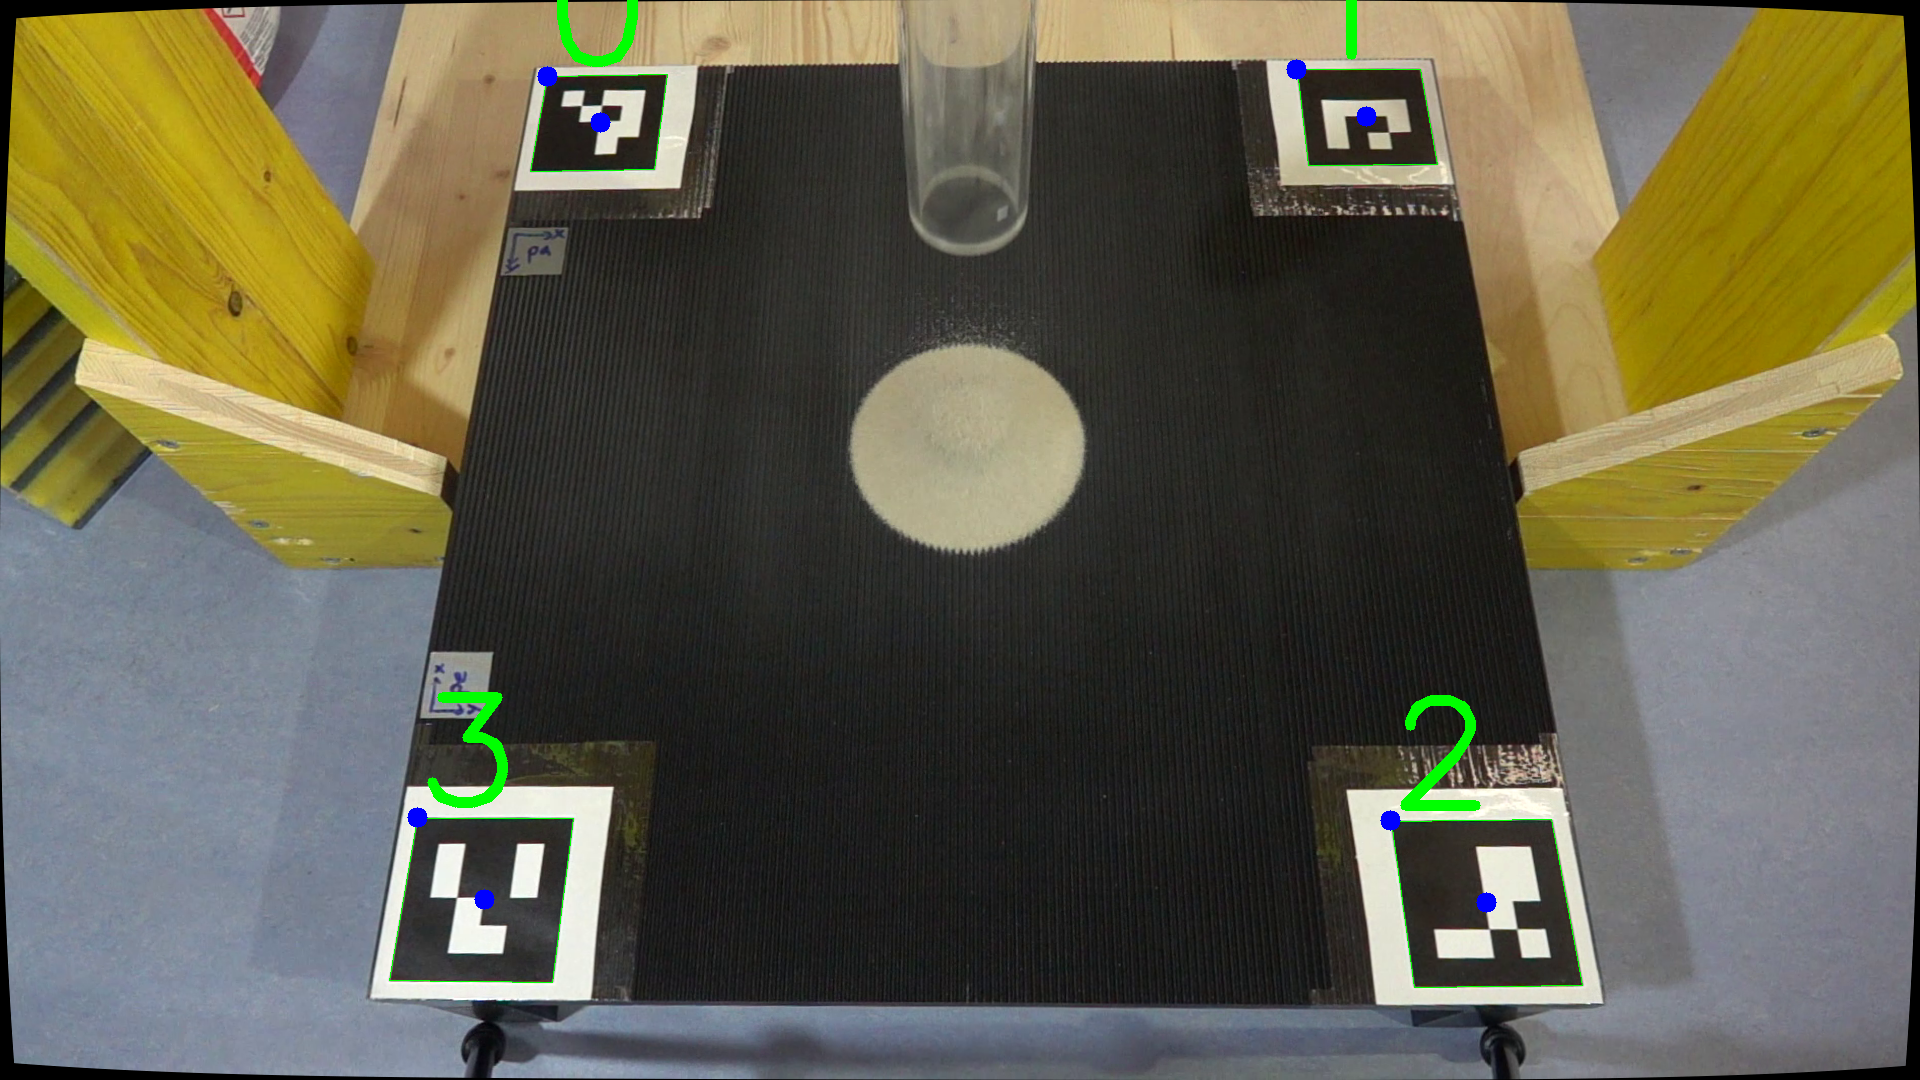
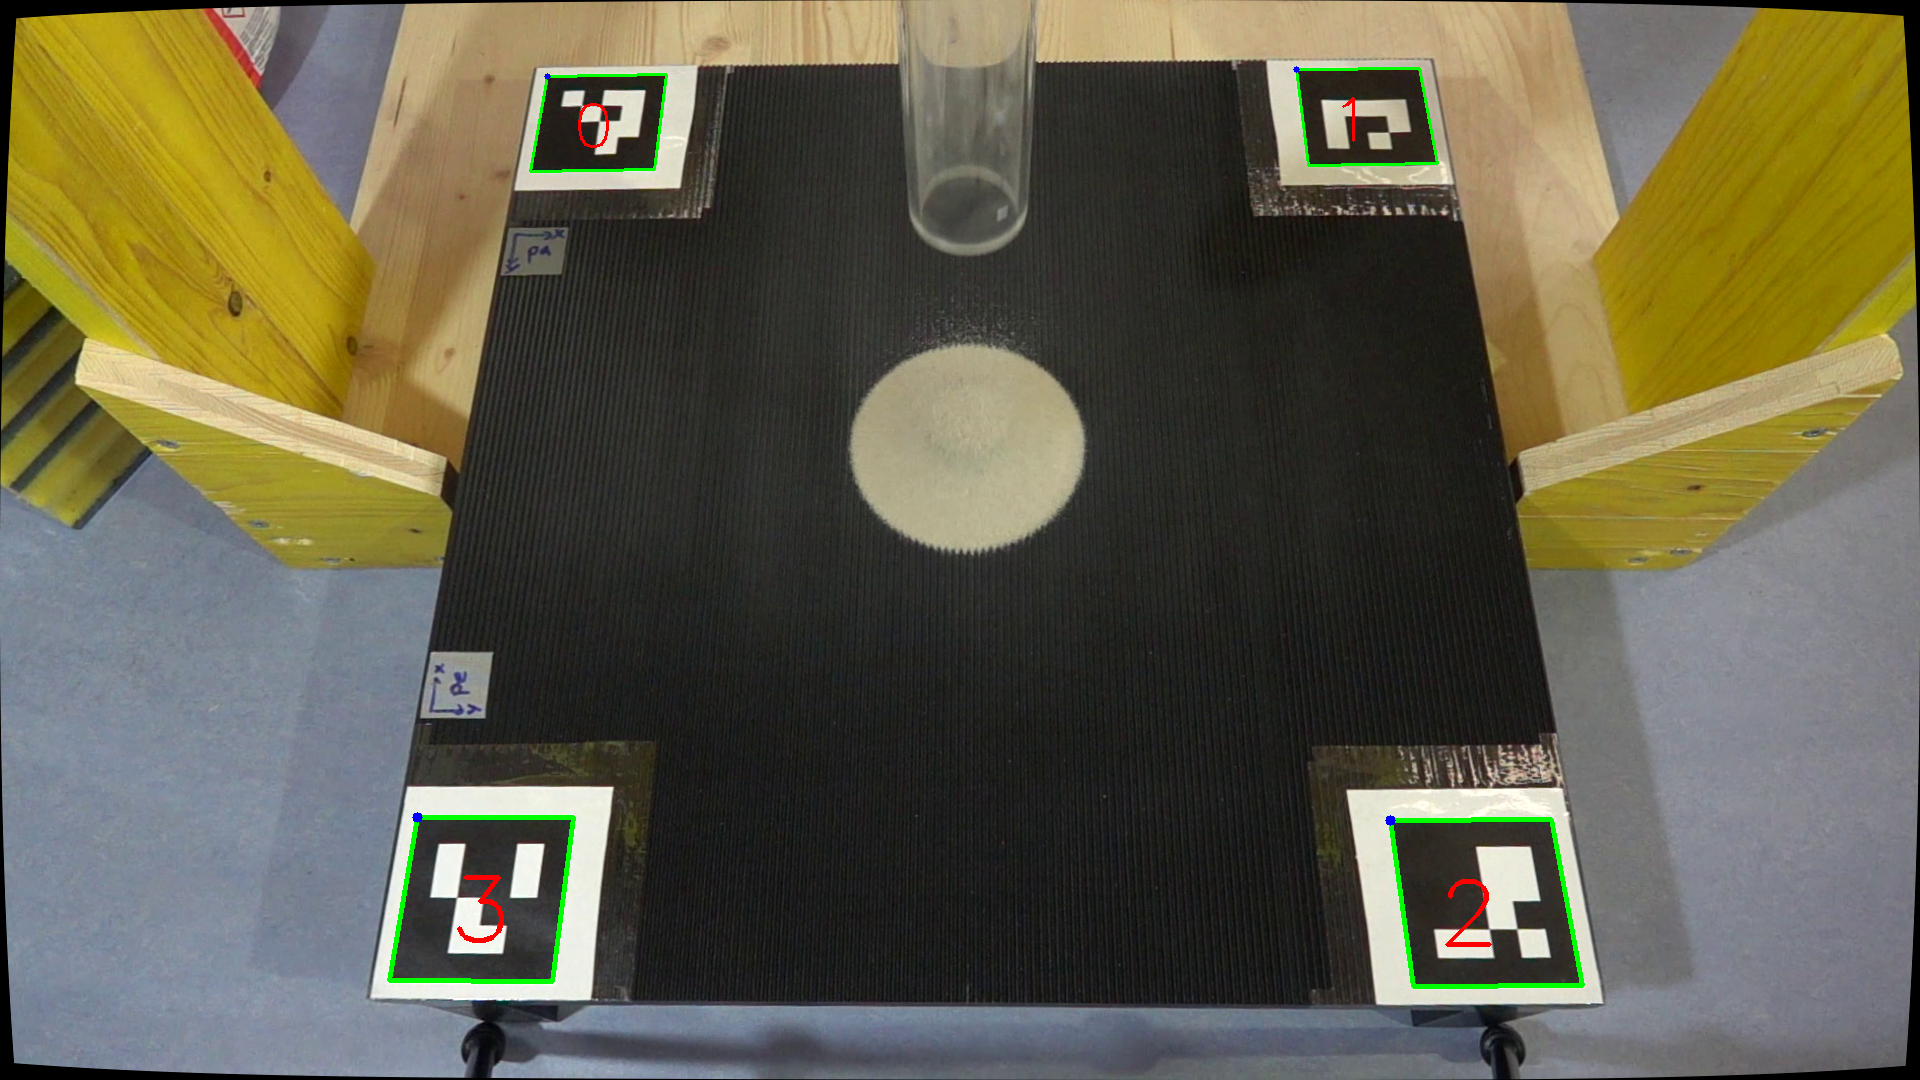
adjusted the result drawing of the detection function

diff --git a/warpPerspective.py b/warpPerspective.py
@@ -4,75 +4,93 @@ import cv2
 import matplotlib.pyplot as plt
 
 # Importing user-defined modules
-from undistortImage import undistort
 from detectMarkers import detect
 
 
 def warp(corners, pattern, image):
-    
-    src = np.array([[corners[0][0], corners[0][1]], [corners[5][0], corners[5][1]], [corners[10][0], corners[10][1]], [corners[15][0], corners[15][1]]], dtype=np.float32)
-
-    dst = np.array([[pattern[0][0], pattern[0][1]], [pattern[5][0], pattern[5][1]], [pattern[10][0], pattern[10][1]], [pattern[15][0], pattern[15][1]]], dtype=np.float32)
-
-    # Get perspective transform matrix
-    M = cv2.getPerspectiveTransform(src, dst)
+    # Find the homography matrix
+    # Assume corners and pattern are arrays of points in the source and destination images
+    H, _ = cv2.findHomography(corners, pattern, cv2.RANSAC, 5)
 
     # Wrap the image
-    img_warp = cv2.warpPerspective(image, M, (int(6000), int(6000)), cv2.INTER_LINEAR + cv2.WARP_INVERSE_MAP)
+    img_warp = cv2.warpPerspective(image, H, (int(6000), int(6000)), 
+                                   cv2.INTER_LINEAR + cv2.WARP_INVERSE_MAP)
 
-    return img_warp, M
+    return img_warp, H
 
 if __name__ == "__main__":
+    ####################################################################################
+    # ONLY SECTION TO ADJUST PARAMETERS
 
-    # Define used camera
-    camera = "sony_hs" # "sony", "sony_hs", "gopro1", "gopro2
-
-    # Define used basis
-    basis =  "rough" # "rough", "smooth"
-
-    # Import calibration parameters
-    K = np.loadtxt("calibration/" + camera + "/K.txt")  # calibration matrix[3x3]
-    d = np.loadtxt("calibration/" + camera + "/d.txt")  # distortion coefficients[2x1]
+    # Define paths
+    data_path = 'data/'
+    img_name = 'undst.png'
     
-    # Load image and define reference pattern in clockwise order in world frame (3D) in [mm]
+    # Define used basis - if new basis is used, please measure and define pattern below
+    basis =  'r2-pa' # 'r0-pe', 'r0-pa', 'r2-pe', 'r2-pa', 'r4-pe', 'r4-pa'
+
+    ####################################################################################
+    
+    # Define reference pattern in clockwise order in world frame (3D) in [0.1mm]
     match basis:
-        case 'r0-pa':
-            image = cv2.imread("data/f_r0-pa_d113_h40_100.JPG")
-            pattern = 100 * np.array([[0.9, 0.84, 0], [8.96, 0.82, 0], [8.95, 8.92, 0], [0.87, 8.93, 0],
-                                     [50.87, 0.82, 0], [58.95, 0.82, 0], [58.9, 8.91, 0], [50.83, 8.9, 0],
-                                     [50.74, 51.07, 0], [58.83, 51.02, 0], [58.88, 59.1, 0], [50.8, 59.14, 0],
-                                     [0.86, 51.02, 0], [8.94, 51.07, 0], [8.88, 59.17, 0], [0.79, 59.11, 0]])
-        case 'r0-pe':
-            image = cv2.imread("data/f_r0-pe_d113_h40_100.JPG")
-            pattern = 100 * np.array([[59.07, 0.87, 0], [59.18, 8.96, 0], [51.07, 8.95, 0], [50.98, 0.86, 0],
-                                     [59.18, 50.87, 0], [59.13, 58.93, 0], [51.06, 58.9, 0], [51.09, 50.82, 0],
-                                     [8.91, 50.74, 0], [8.96, 58.83, 0], [0.88, 58.88, 0], [0.85, 50.8, 0],
-                                     [8.89, 0.86, 0], [8.92, 8.94, 0], [0.82, 8.88, 0], [0.81, 0.8, 0]])
-        case "smooth":
-            image = cv2.imread("data/DSC00233.JPG")
-            pattern = 10 * np.array([[12.5, 6.2, 0], [99.5, 8, 0], [98.6, 95, 0], [11.5, 93.2, 0],
-                                [498.8, 8.2, 0], [586, 8.2, 0], [586.5, 95.4, 0], [499.2, 95, 0],
-                                [499.5, 503, 0], [586.7, 503.9, 0], [585.4, 591.2, 0], [498, 590.3, 0],
-                                [16.2, 503.1, 0], [103.3, 503.2, 0], [102.7, 590.5, 0], [15.6, 590.5, 0]]
-                                )
-        case "rough":
-            image = cv2.imread("data/C0037 - Trim_0.JPG")
-            pattern = 10 * np.array([[12.6, 12.8, 0], [98.5, 12.3, 0], [98.7, 98.5, 0], [13.1, 98.8, 0],
-                                [499.2, 12.7, 0], [585.3, 12.8, 0], [585.1, 98.7, 0], [499.1, 98.6, 0],
-                                [499.5, 501.2, 0], [585.5, 501.1, 0], [585.6, 587.1, 0], [499.6, 587.1, 0],
-                                [12.7, 501.2, 0], [98.3, 501.2, 0], [98.4, 587.5, 0], [12.6, 587.3, 0]]
-                                )
+        case 'r0-pe': # changed from earlier pa
+            pattern = 100 * np.array([[0.9, 0.84, 0], [8.96, 0.82, 0], [8.95, 8.92, 0], 
+                                      [0.87, 8.93, 0],
+                                    [50.87, 0.82, 0], [58.95, 0.82, 0], [58.9, 8.91, 0], 
+                                    [50.83, 8.9, 0],
+                                    [50.74, 51.07, 0], [58.83, 51.02, 0], [58.88, 59.1, 0], 
+                                    [50.8, 59.14, 0],
+                                    [0.86, 51.02, 0], [8.94, 51.07, 0], [8.88, 59.17, 0], 
+                                    [0.79, 59.11, 0]])
+        case 'r0-pa': # changed from earlier pe
+            pattern = 100 * np.array([[59.07, 0.87, 0], [59.18, 8.96, 0], [51.07, 8.95, 0], 
+                                      [50.98, 0.86, 0],
+                                    [59.18, 50.87, 0], [59.13, 58.93, 0], [51.06, 58.9, 0], 
+                                    [51.09, 50.82, 0],
+                                    [8.91, 50.74, 0], [8.96, 58.83, 0], [0.88, 58.88, 0], 
+                                    [0.85, 50.8, 0],
+                                    [8.89, 0.86, 0], [8.92, 8.94, 0], [0.82, 8.88, 0], 
+                                    [0.81, 0.8, 0]])
+        case 'r2-pa':
+            pattern = 100 * np.array([[1.06, 0.82, 0], [9.15, 0.82, 0], [9.12, 8.92, 0], 
+                                      [1.05, 8.92, 0],
+                                    [50.7, 0.91, 0], [58.77, 0.94, 0], [58.75, 9.04, 0], 
+                                    [50.66, 9, 0],
+                                    [50.57, 51.09, 0], [58.63, 50.99, 0], [58.73, 59.07, 0], 
+                                    [50.66, 59.14, 0],
+                                    [1.08, 51.02, 0], [9.15, 51.02, 0], [9.12, 59.13, 0], 
+                                    [1.04, 59.11, 0]])
+        case 'r2-pe':
+            pattern = 100 * np.array([[59.1, 1.06, 0], [59.12, 9.15, 0], [51.02, 9.12, 0], 
+                                      [51, 1.05, 0],
+                                    [59.04, 50.7, 0], [58.99, 58.77, 0], [58.88, 58.75, 0], 
+                                    [50.96, 50.66, 0],
+                                    [8.87, 50.57, 0], [8.91, 58.63, 0], [0.85, 58.73, 0], 
+                                    [0.81, 50.66, 0],
+                                    [8.9, 1.08, 0], [8.91, 9.15, 0], [0.81, 9.12, 0], 
+                                    [0.86, 1.04, 0]])
+        case 'r4-pa':
+            pattern = 100 * np.array([[1.3, 0.82, 0], [9.38, 0.83, 0], [9.33, 8.94, 0], 
+                                      [1.24, 8.92, 0],
+                                    [50.39, 0.89, 0], [58.46, 0.93, 0], [58.41, 9.04, 0], 
+                                    [50.32, 8.98, 0],
+                                    [50.33, 50.98, 0], [58.42, 50.92, 0], [58.48, 59.00, 0], 
+                                    [50.4, 59.04, 0],
+                                    [1.23, 51.01, 0], [9.28, 50.96, 0], [9.29, 59.06, 0], 
+                                    [1.24, 59.08, 0]])
+        case 'r4-pe':
+            pattern = 100 * np.array([[59.08, 1.3, 0], [59.07, 9.38, 0], [50.97, 9.33, 0], 
+                                      [51.0, 1.24, 0],
+                                    [59.0, 50.39, 0], [58.93, 58.46, 0], [50.83, 58.41, 0], 
+                                    [50.92, 50.32, 0],
+                                    [8.9, 50.33, 0], [8.92, 58.42, 0], [0.89, 58.48, 0], 
+                                    [0.83, 50.4, 0],
+                                    [8.97, 1.23, 0], [8.98, 9.28, 0], [0.87, 9.29, 0], 
+                                    [0.89, 1.24, 0]])
+    
 
-
-    cv2.imshow("image", cv2.resize(image, (1920, 1080)))
-    cv2.waitKey(0)
-
-    # Undistort image
-    img_undst = undistort(K, d, image)
-
-    # Show undistorted image
-    cv2.imshow('img_undst', cv2.resize(img_undst, (1920, 1080))) # Initial Capture
-    cv2.waitKey(0)
+    # Load undistorted image
+    img_undst = cv2.imread(data_path + img_name)
 
     # Detect markers
     marker = "DICT_4X4_50" 
@@ -80,29 +98,34 @@ if __name__ == "__main__":
     cv2.imshow('img_det', cv2.resize(img_det, (1920, 1080))) # Detected Capture
     cv2.waitKey(0)
 
-    img_warp, M = warp(corners, pattern, img_undst)
+    # Warp the image
+    img_warp, H = warp(corners, pattern, img_undst)
     cv2.imshow('img_warp', cv2.resize(img_warp, (1080, 1080))) # Transformed Capture
-    cv2.waitKey(0)  
+    cv2.waitKey(0)
 
-    # Check transformation
+    # Save warped image
+    print('Save detected image: ', 'warp_' + img_name)
+    cv2.imwrite(data_path + 'warp_' + img_name, img_warp)  
+
+    # Check transformation result by comparing detected corners with transformed corners
     rpe = 0
     img_warp_det, corners_warp, ids_warp = detect(img_warp, marker)
     cv2.imshow('img_warp_det', cv2.resize(img_warp_det, (1080, 1080))) # Detected Capture
     cv2.waitKey(0)
-
-    print("Transformation matrix: \n", M)
+    print("Transformation matrix: \n", H)
     for i in range(len(corners)):
         print('corners ', i, ': ', [corners[i][0], corners[i][1]])
-        img_pts = M.dot([corners[i][0], corners[i][1], 1])/M[2, :].dot([corners[i][0], corners[i][1], 1])
+        img_pts = H.dot([corners[i][0], corners[i][1], 1])/H[2, :].dot([corners[i][0], 
+                                                                        corners[i][1], 1])
         print('img_pts ', i, ': ', img_pts[0:2])
         print('corner_warp ', i, ': ', corners_warp[i][0], corners_warp[i][1])
-        rpe = rpe + np.linalg.norm([corners_warp[i][0], corners_warp[i][1]] - img_pts[0:2])
-
-    print('RPE: ', rpe/len(pattern))    
-
-    # Display the transformed image
+        rpe += np.linalg.norm([corners_warp[i][0], corners_warp[i][1]] - img_pts[0:2])
     
-    f, axarr = plt.subplots(2, 1)
-    axarr[0].imshow(img_undst)
-    axarr[1].imshow(img_warp)
-    plt.show()
+    # Calculate reprojection error
+    rpe = rpe/len(pattern)
+    print('RPE in [px]: ', rpe)
+    print('RPE in [mm]: ', rpe/10)
+
+    # Save warped and detected images
+    print('Save detected image: det_warp')
+    cv2.imwrite(data_path + 'det_warp.png', img_warp_det)

diff --git a/detectMarkers.py b/detectMarkers.py
@@ -36,11 +36,11 @@ def detect(image, marker):
     arucoParams = cv2.aruco.DetectorParameters()
     detector = cv2.aruco.ArucoDetector(arucoDict, arucoParams)
 
-    # resize image
+    # copy image
     frame = image.copy()
 
     # detect ArUco markers in the input frame
-    (corners, ids, rejected) = detector.detectMarkers(frame)
+    (corners, ids, _) = detector.detectMarkers(frame)
 
     # do subpixel detection
     corners_sub = []
@@ -54,9 +54,6 @@ def detect(image, marker):
 #    print('corners_sub detect = ', corners_sub)
 
     ## Display detection result
-    # Draw a square around the markers
-    cv2.aruco.drawDetectedMarkers(frame, corners_sub)
-
     # verify *at least* one ArUco marker was detected
     if len(corners_sub) > 0:
         # flatten the ArUco IDs list
@@ -77,21 +74,26 @@ def detect(image, marker):
             bottomLeft = (int(bottomLeft[0]), int(bottomLeft[1]))
             topLeft = (int(topLeft[0]), int(topLeft[1]))
 
-            # compute and draw the center (x, y)-coordinates of the
-            # ArUco marker
-            cX = int((topLeft[0] + bottomRight[0]) / 2.0)
-            cY = int((topLeft[1] + bottomRight[1]) / 2.0)
-            cv2.circle(frame, (cX, cY), 10, (255, 0, 0), -1)
+            # calculate thickness for drawing
+            thickness = max(abs(bottomRight[0] - topLeft[0]), abs(bottomLeft[1] - topRight[1]))
 
+            # draw the bounding box of the ArUco marker
+            cv2.line(frame, topLeft, topRight, (0, 255, 0), thickness//50)
+            cv2.line(frame, topRight, bottomRight, (0, 255, 0), thickness//50)
+            cv2.line(frame, bottomRight, bottomLeft, (0, 255, 0), thickness//50)
+            cv2.line(frame, bottomLeft, topLeft, (0, 255, 0), thickness//50)
+
+            # draw the top left corner (x, y)-coordinates of the ArUco marker
             cX = int(topLeft[0])
             cY = int(topLeft[1])
-            cv2.circle(frame, (cX, cY), 10, (255, 0, 0), -1)
-            
+            cv2.circle(frame, (cX, cY), thickness//30, (255, 0, 0), -1)
+
             # draw the ArUco marker ID on the frame
             cv2.putText(frame, str(markerID),
-                (topLeft[0], topLeft[1] - 15),
+                (topLeft[0] + (bottomRight[0] - topLeft[0])//4, 
+                 bottomRight[1] - (bottomRight[1] - topLeft[1])//4),
                 cv2.FONT_HERSHEY_SIMPLEX,
-                5, (0, 255, 0), 10)
+                thickness//50, (0, 0, 255), thickness//50)
 
     # show the output frame
 #    cv2.imshow('frame', cv2.resize(frame, (1080, 1080)))
@@ -135,10 +137,6 @@ if __name__ == '__main__':
     img_name = 'undst.png'
 
     ####################################################################################
-
-    # Import calibration parameters
-    K = np.loadtxt('calibration/' + camera + '/K.txt')  # calibration matrix[3x3]
-    d = np.loadtxt('calibration/' + camera + '/d.txt')  # distortion coefficients[2x1]
 
     # Read image
     image = cv2.imread(data_path + img_name)

diff --git a/main.py b/main.py
@@ -65,7 +65,7 @@ if __name__ == '__main__':
     skip_frames = 10  # [] Number of frames to skip in calibration video
 
     # Define images for optional output of respective images
-    img_out = '' # Options: '', _undst', '_det', '_warp', '_thr', '_mes'
+    img_out = '_det' # Options: '', _undst', '_det', '_warp', '_thr', '_mes'
 
     # Define exp_out for optional output of all respective experiment images
     exp_out = 'f_r2-pa_d41_h148_16' # Options: '', 'experiment_name',
